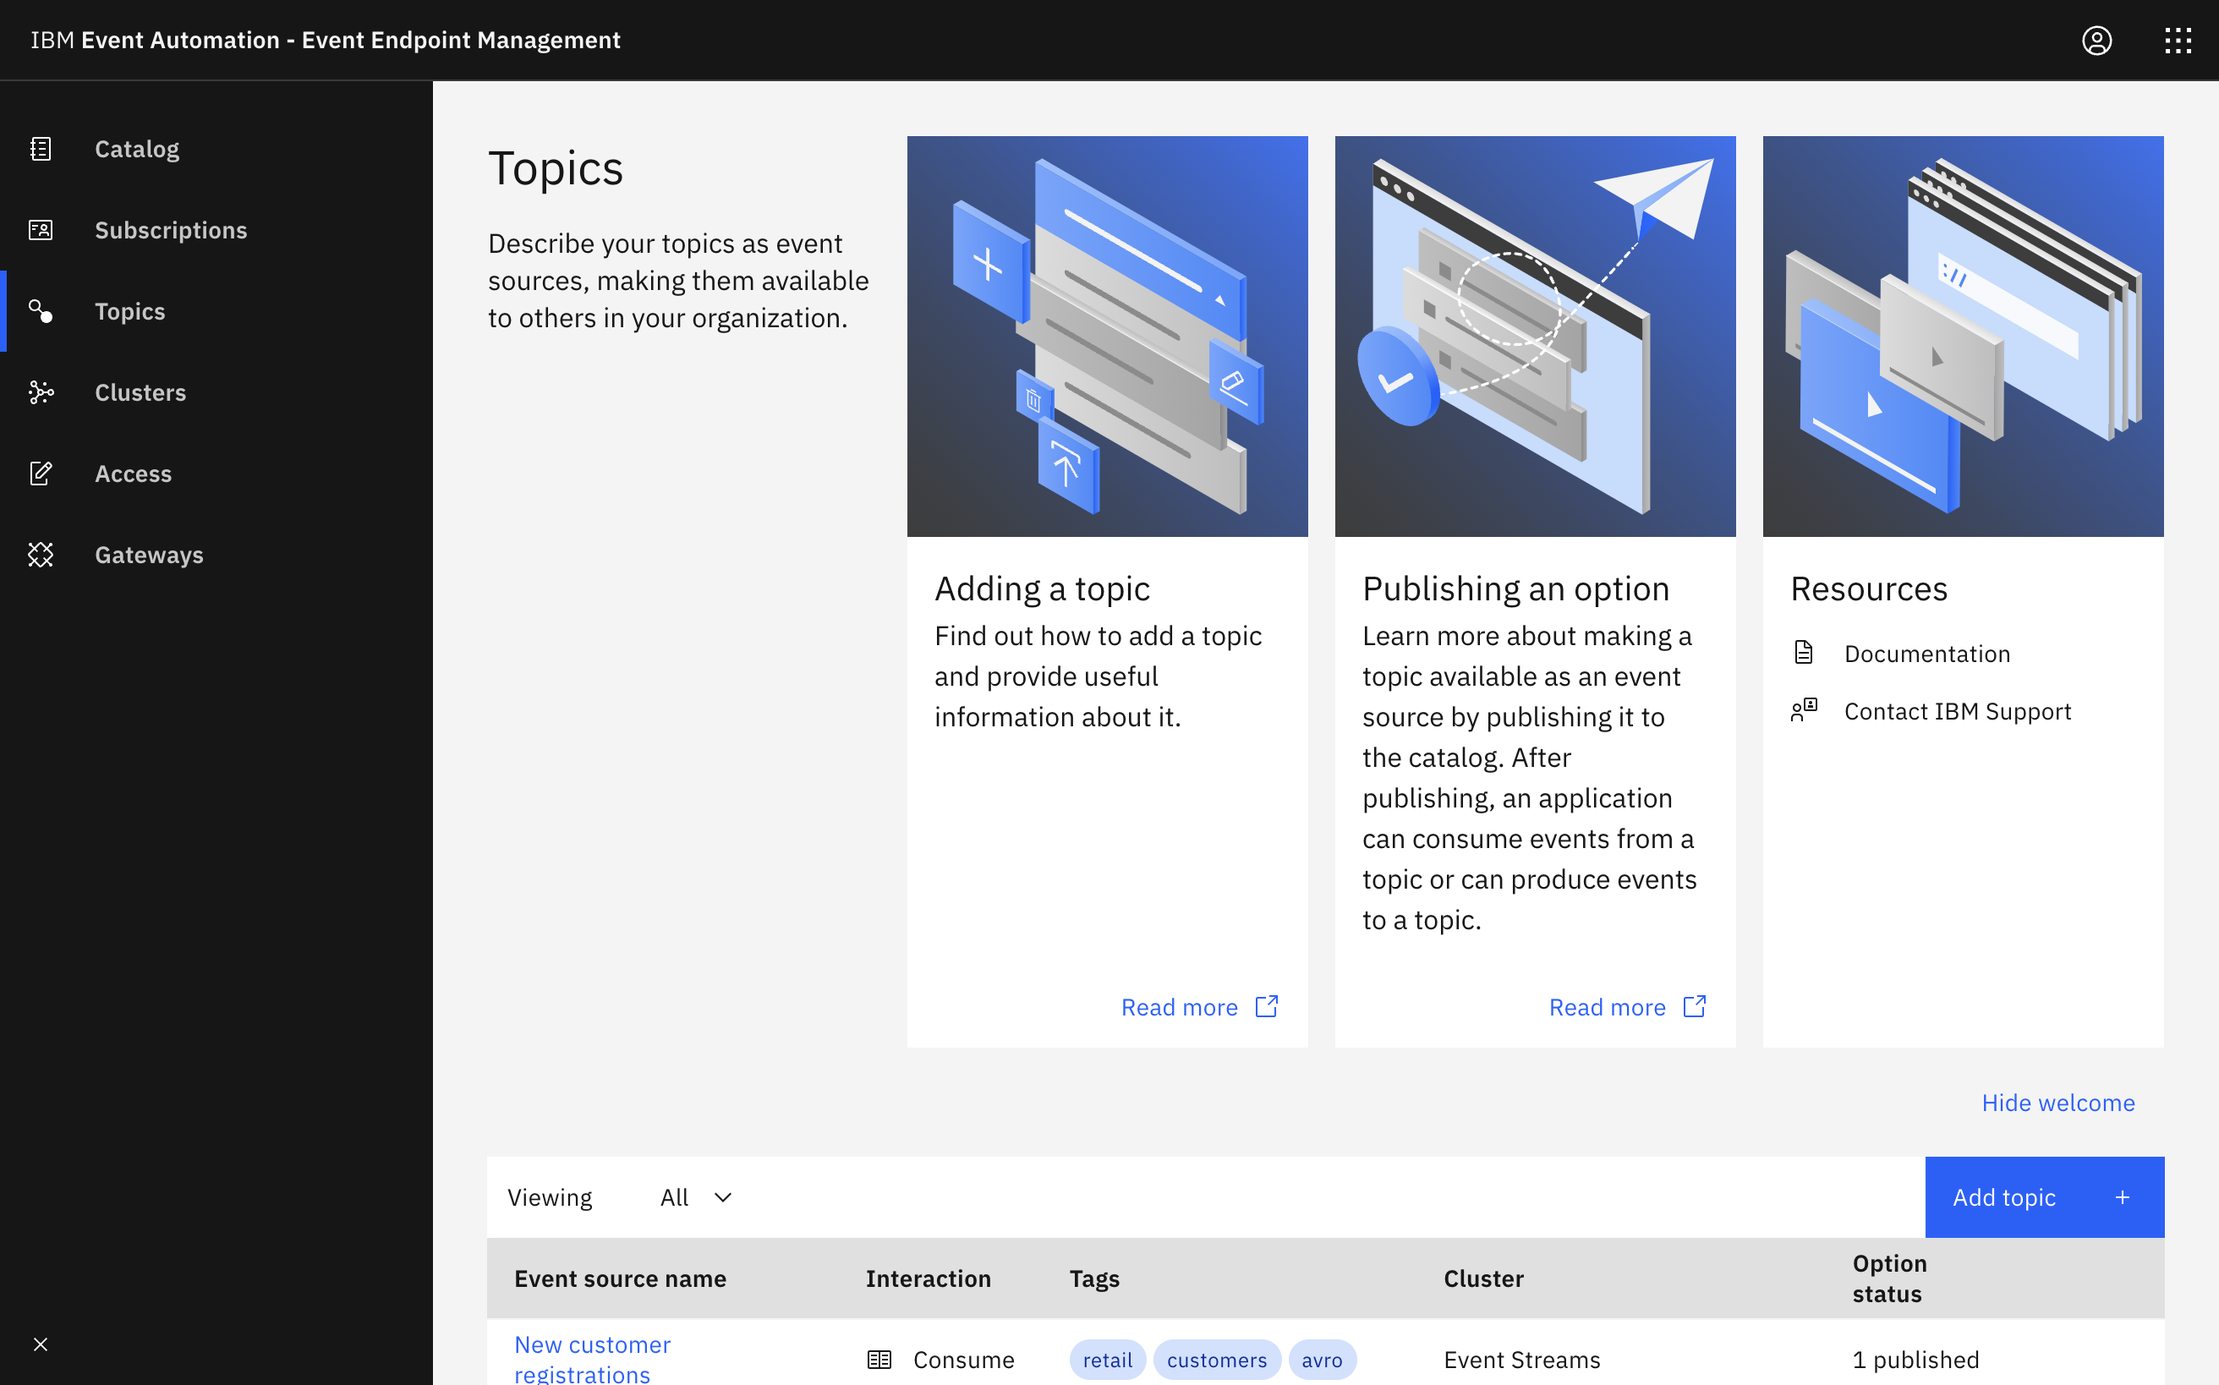
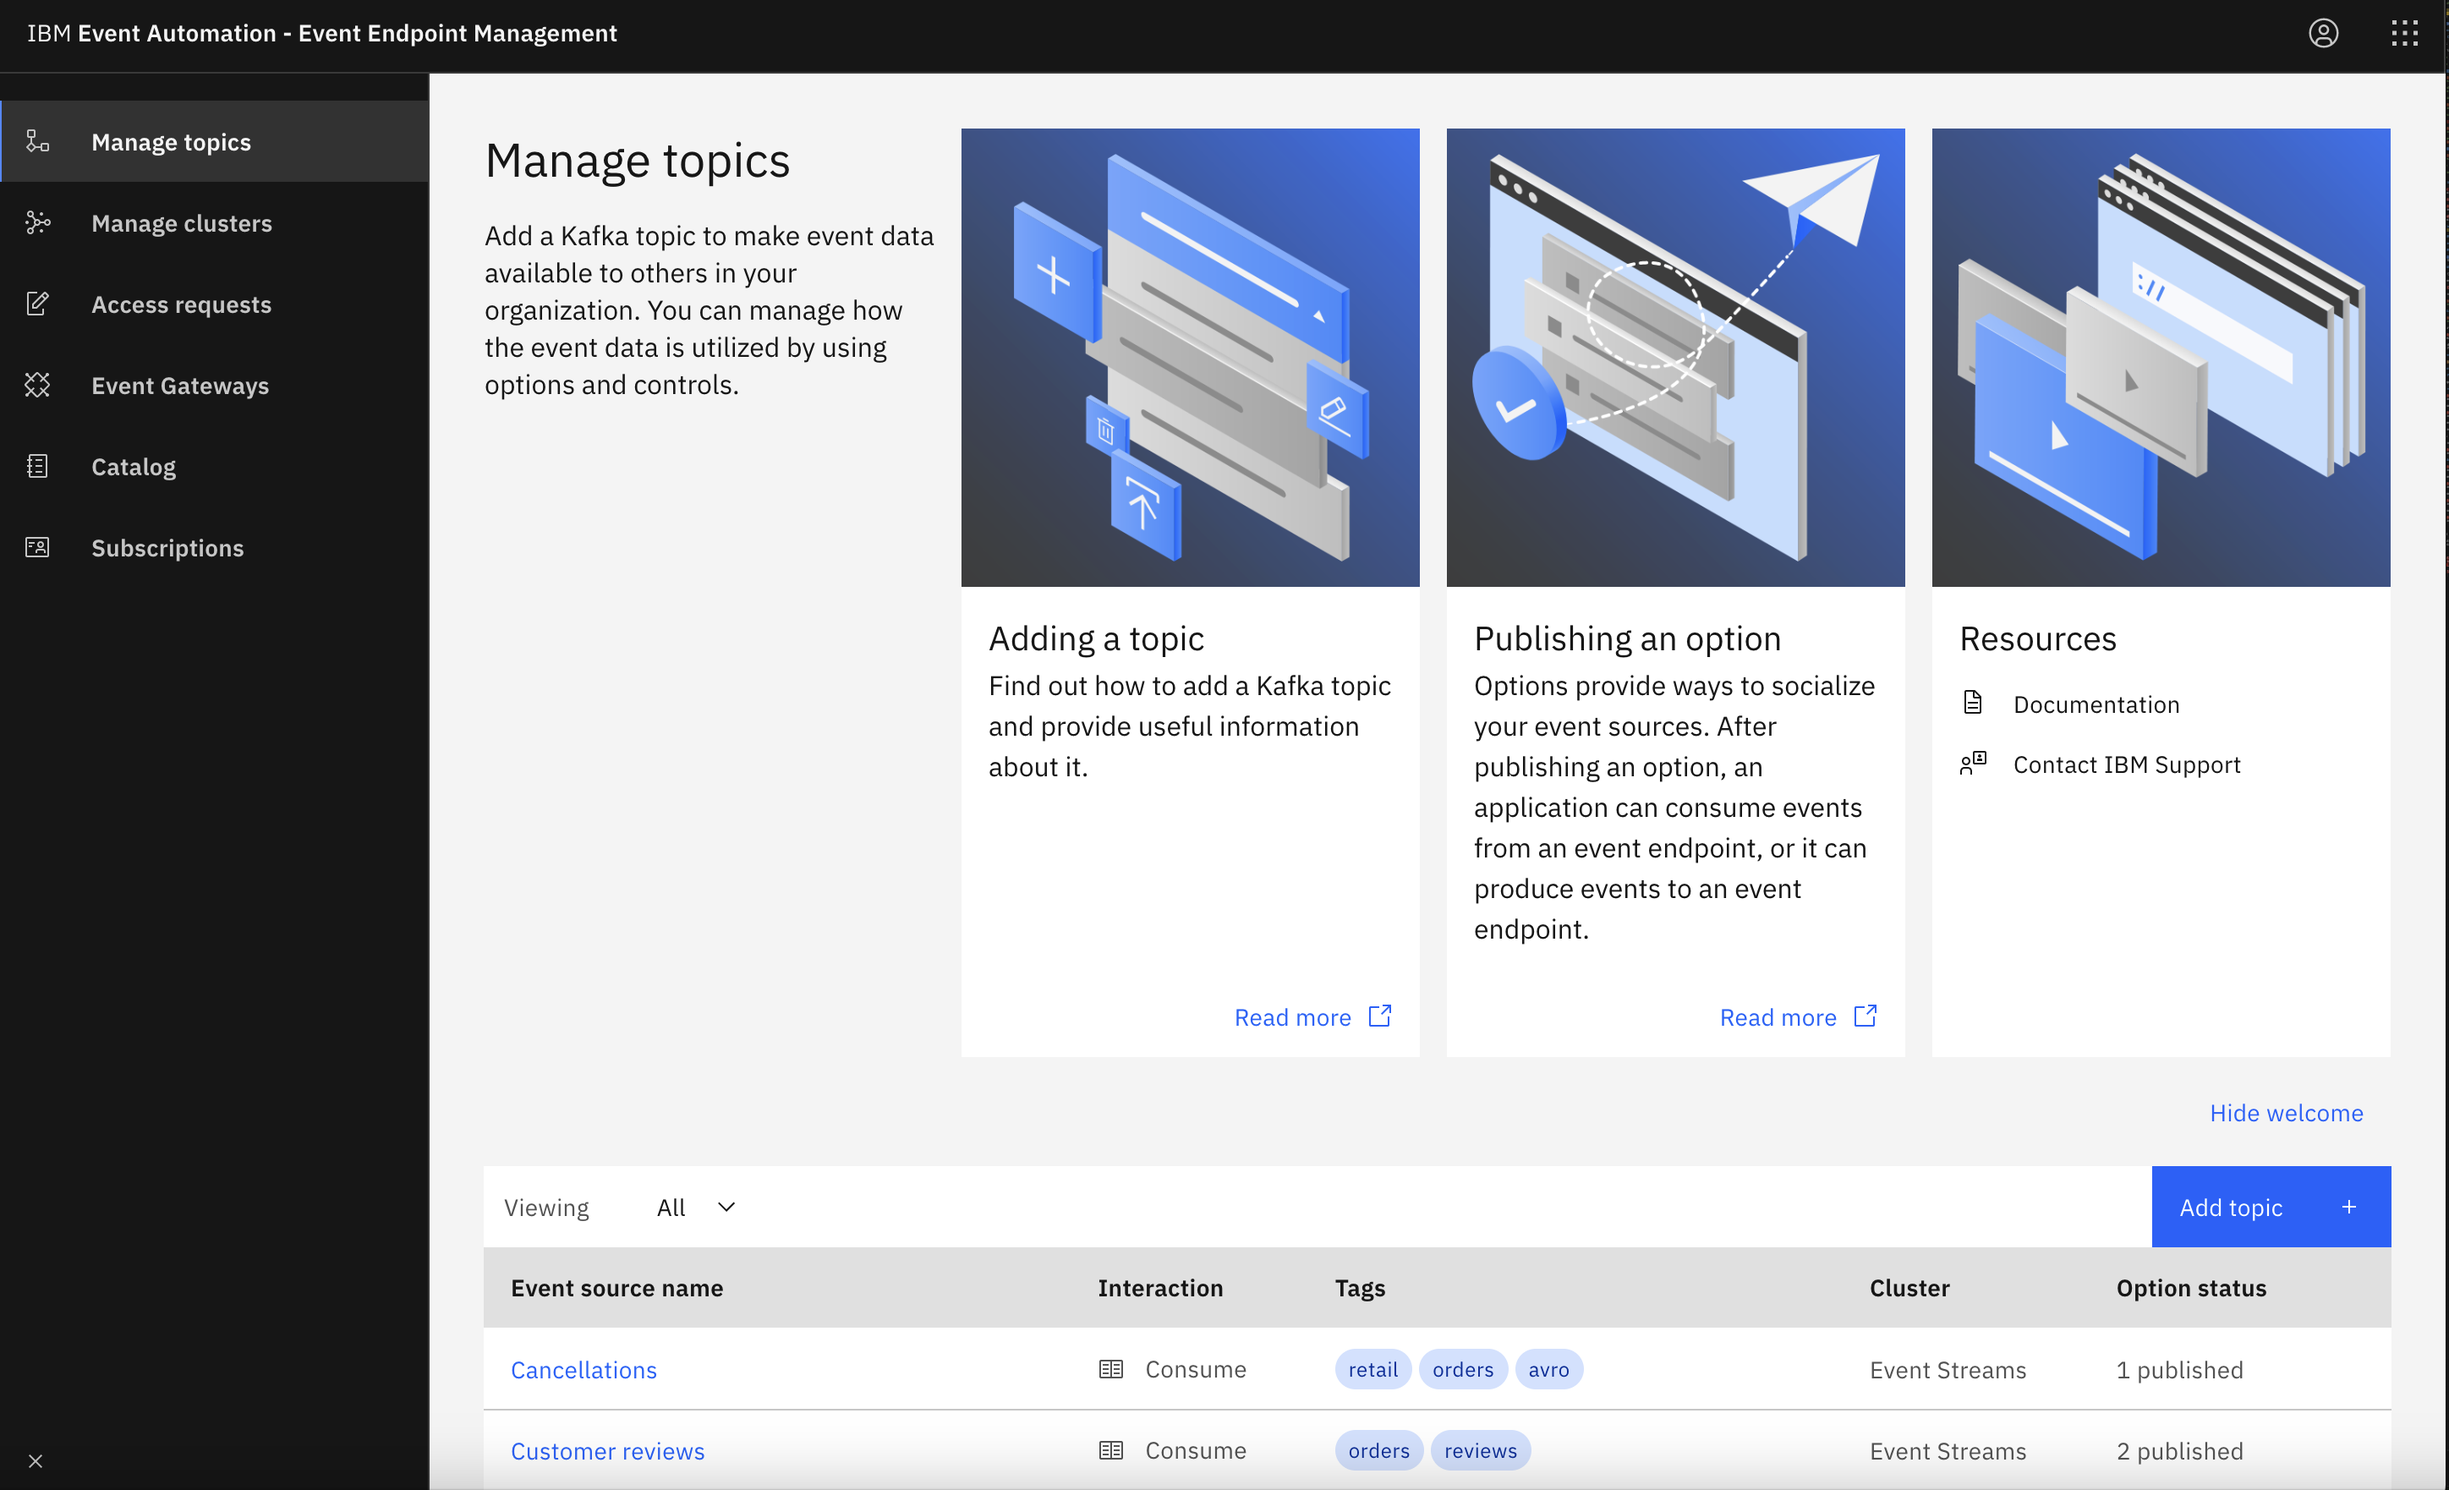
Updating tutorial

diff --git a/_tutorials/ea-guided-tutorial-6.md b/_tutorials/ea-guided-tutorial-6.md
@@ -8,9 +8,9 @@ cardType: "large"
 order: 6
 ---
 
-**Note:** To follow the step-by-step instructions in this tutorial, you can watch the video or read the instructions on the page.
+<!-- **Note:** To follow the step-by-step instructions in this tutorial, you can watch the video or read the instructions on the page.
 
-{% include video.html videoSource="videos/tutorials/guided/06-discover.mp4" %}{: class="tutorial-video" }
+{% include video.html videoSource="videos/tutorials/guided/06-discover.mp4" %}{: class="tutorial-video" }-->
 
 
 ## Scenario: Sharing results of analysis and processing
@@ -26,7 +26,7 @@ This tutorial begins with the flow that is created in [Triggering actions](./tut
 
 If you haven't completed that tutorial yet, you should do it now.
 
-### Step 2 : Add the topic to the catalog
+<!-- ### Step 2 : Add the topic to the catalog
 
 The next step is to provide the topic details to create an entry in the catalog.
 
@@ -55,35 +55,62 @@ The next step is to provide the topic details to create an entry in the catalog.
    Verify the sample message selected.
 
 1. Click **Share for reuse**.
+-->
 
-### Step 3 : Document the topic
+### Step 2 : Add and describe your topic
 
-The next step is to document the topic to describe the events that your processing flow is producing.
+The next step is to add your topic to the {{site.data.reuse.eem_name}} catalog and to describe the events that your processing flow is producing.
 
-1. Go to the {{site.data.reuse.eem_name}} **Manage Topics** page.
+1. In the {{site.data.reuse.eem_name}} UI, click **Manage topics** in the navigation pane, then click **Add topic**.
 
-   [![screenshot]({{ 'images' | relative_url }}/ea-tutorials/tutorial-6-1.png "screenshot of the EEM topics page"){: class="tutorial-screenshot" }]({{ 'images' | relative_url }}/ea-tutorials/tutorial-6-1.png "screenshot of the EEM topics page")
+   [![screenshot]({{ 'images' | relative_url }}/ea-tutorials/tutorial-6-1.png "Screenshot of the Manage topics page in the Event Endpoint Management UI"){: class="tutorial-screenshot" }]({{ 'images' | relative_url }}/ea-tutorials/tutorial-6-1.png "Screenshot of the Manage topics page in the Event Endpoint Management UI")
 
    If you need a reminder of how to access {{site.data.reuse.eem_name}}, you can review [Accessing the tutorial environment](./tutorial-access#event-endpoint-management).
 
+1. Select **Consume events**, and click **Next**. This determines how applications will interact with the your topic as an event source.
+
+1. In **Cluster connection**, select **Event Streams** from the list of existing clusters, then click **Next**.
+
+1. From the list of topics available on the cluster, select the new `ORDERS.EMEA` topic created in [the previous tutorial](./tutorial-5). Give the event source the unique name `EMEA orders`.
+
+   [![screenshot]({{ 'images' | relative_url }}/ea-tutorials/tutorial-6-1a.png "Screenshot showing ORDERS.EMEA selected and unique name EMEA orders added in the Event Endpoint Management UI"){: class="tutorial-screenshot" }]({{ 'images' | relative_url }}/ea-tutorials/tutorial-6-1a.png "Screenshot showing ORDERS.EMEA selected and unique name EMEA orders added in the Event Endpoint Management UI")
+
+1. Click **Add topic**. Your topic is added to the catalog as an event source.
+
+1. Go to the {{site.data.reuse.es_name}} UI, locate the **ORDERS.EMEA** topic in the list of topics, and click the row.
+
+   [![screenshot]({{ 'images' | relative_url }}/ea-tutorials/tutorial-6-1b.png "Screenshot showing Topics list in the Event Streams UI with ORDERS.EMEA topic row"){: class="tutorial-screenshot" }]({{ 'images' | relative_url }}/ea-tutorials/tutorial-6-1b.png "Screenshot showing Topics list in the Event Streams UI with ORDERS.EMEA topic row")
+
+1. Select a message, and copy the sample message from the **Formatted Payload** tab.
+
+   [![screenshot]({{ 'images' | relative_url }}/ea-tutorials/tutorial-6-1c.png "Screenshot showing ORDER.EMEA topic details in the Event Streams UI"){: class="tutorial-screenshot" }]({{ 'images' | relative_url }}/ea-tutorials/tutorial-6-1c.png "Screenshot showing ORDER.EMEA topic details in the Event Streams UI")
+
+1. Go to the {{site.data.reuse.eem_name}} UI, and click **Manage Topics**.
+
 1. Click the new `EMEA orders` topic.
 
-   [![screenshot]({{ 'images' | relative_url }}/ea-tutorials/tutorial-6-5.png "screenshot of EEM"){: class="tutorial-screenshot" }]({{ 'images' | relative_url }}/ea-tutorials/tutorial-6-5.png "screenshot of EEM")
+   <!--[![screenshot]({{ 'images' | relative_url }}/ea-tutorials/tutorial-6-5.png "screenshot of EEM"){: class="tutorial-screenshot" }]({{ 'images' | relative_url }}/ea-tutorials/tutorial-6-5.png "screenshot of EEM")-->
 
-1. Use **Edit information** to provide documentation for the topic.
+1. Click **Edit information** to provide documentation for the topic.
 
-   [![screenshot]({{ 'images' | relative_url }}/ea-tutorials/tutorial-6-6.png "screenshot of EEM"){: class="tutorial-screenshot" }]({{ 'images' | relative_url }}/ea-tutorials/tutorial-6-6.png "screenshot of EEM")
+   <!--[![screenshot]({{ 'images' | relative_url }}/ea-tutorials/tutorial-6-6.png "screenshot of EEM"){: class="tutorial-screenshot" }]({{ 'images' | relative_url }}/ea-tutorials/tutorial-6-6.png "screenshot of EEM")-->
 
 1. Add a description of the events generated by your processing flow.
 
-   [![screenshot]({{ 'images' | relative_url }}/ea-tutorials/tutorial-6-7.png "screenshot of EEM"){: class="tutorial-screenshot" }]({{ 'images' | relative_url }}/ea-tutorials/tutorial-6-7.png "screenshot of EEM")
+   [![screenshot]({{ 'images' | relative_url }}/ea-tutorials/tutorial-6-7.png "Screenshot showing edit event information panel in Event Endpoint Management UI"){: class="tutorial-screenshot" }]({{ 'images' | relative_url }}/ea-tutorials/tutorial-6-7.png "Screenshot showing edit event information panel in Event Endpoint Management UI")
 
    Suggested description:
    > "Events from the EMEA region recorded by the order management system"
 
+1. Click **Event information** in the navigation, and set the message format to **JSON**.
+
+1. Paste the sample message in the **Sample message** field.
+
+   [![screenshot]({{ 'images' | relative_url }}/ea-tutorials/tutorial-6-1d.png "Screenshot showing edit event information panel in Event Endpoint Management UI"){: class="tutorial-screenshot" }]({{ 'images' | relative_url }}/ea-tutorials/tutorial-6-1d.png "Screenshot showing edit event information panel in Event Endpoint Management UI")
+
 1. Click **Save**.
 
-### Step 4 : Publish the topic
+### Step 3 : Publish the topic
 
 The final step is to publish the new topic in the catalog so that it can be discovered by other teams in your enterprise.
 
